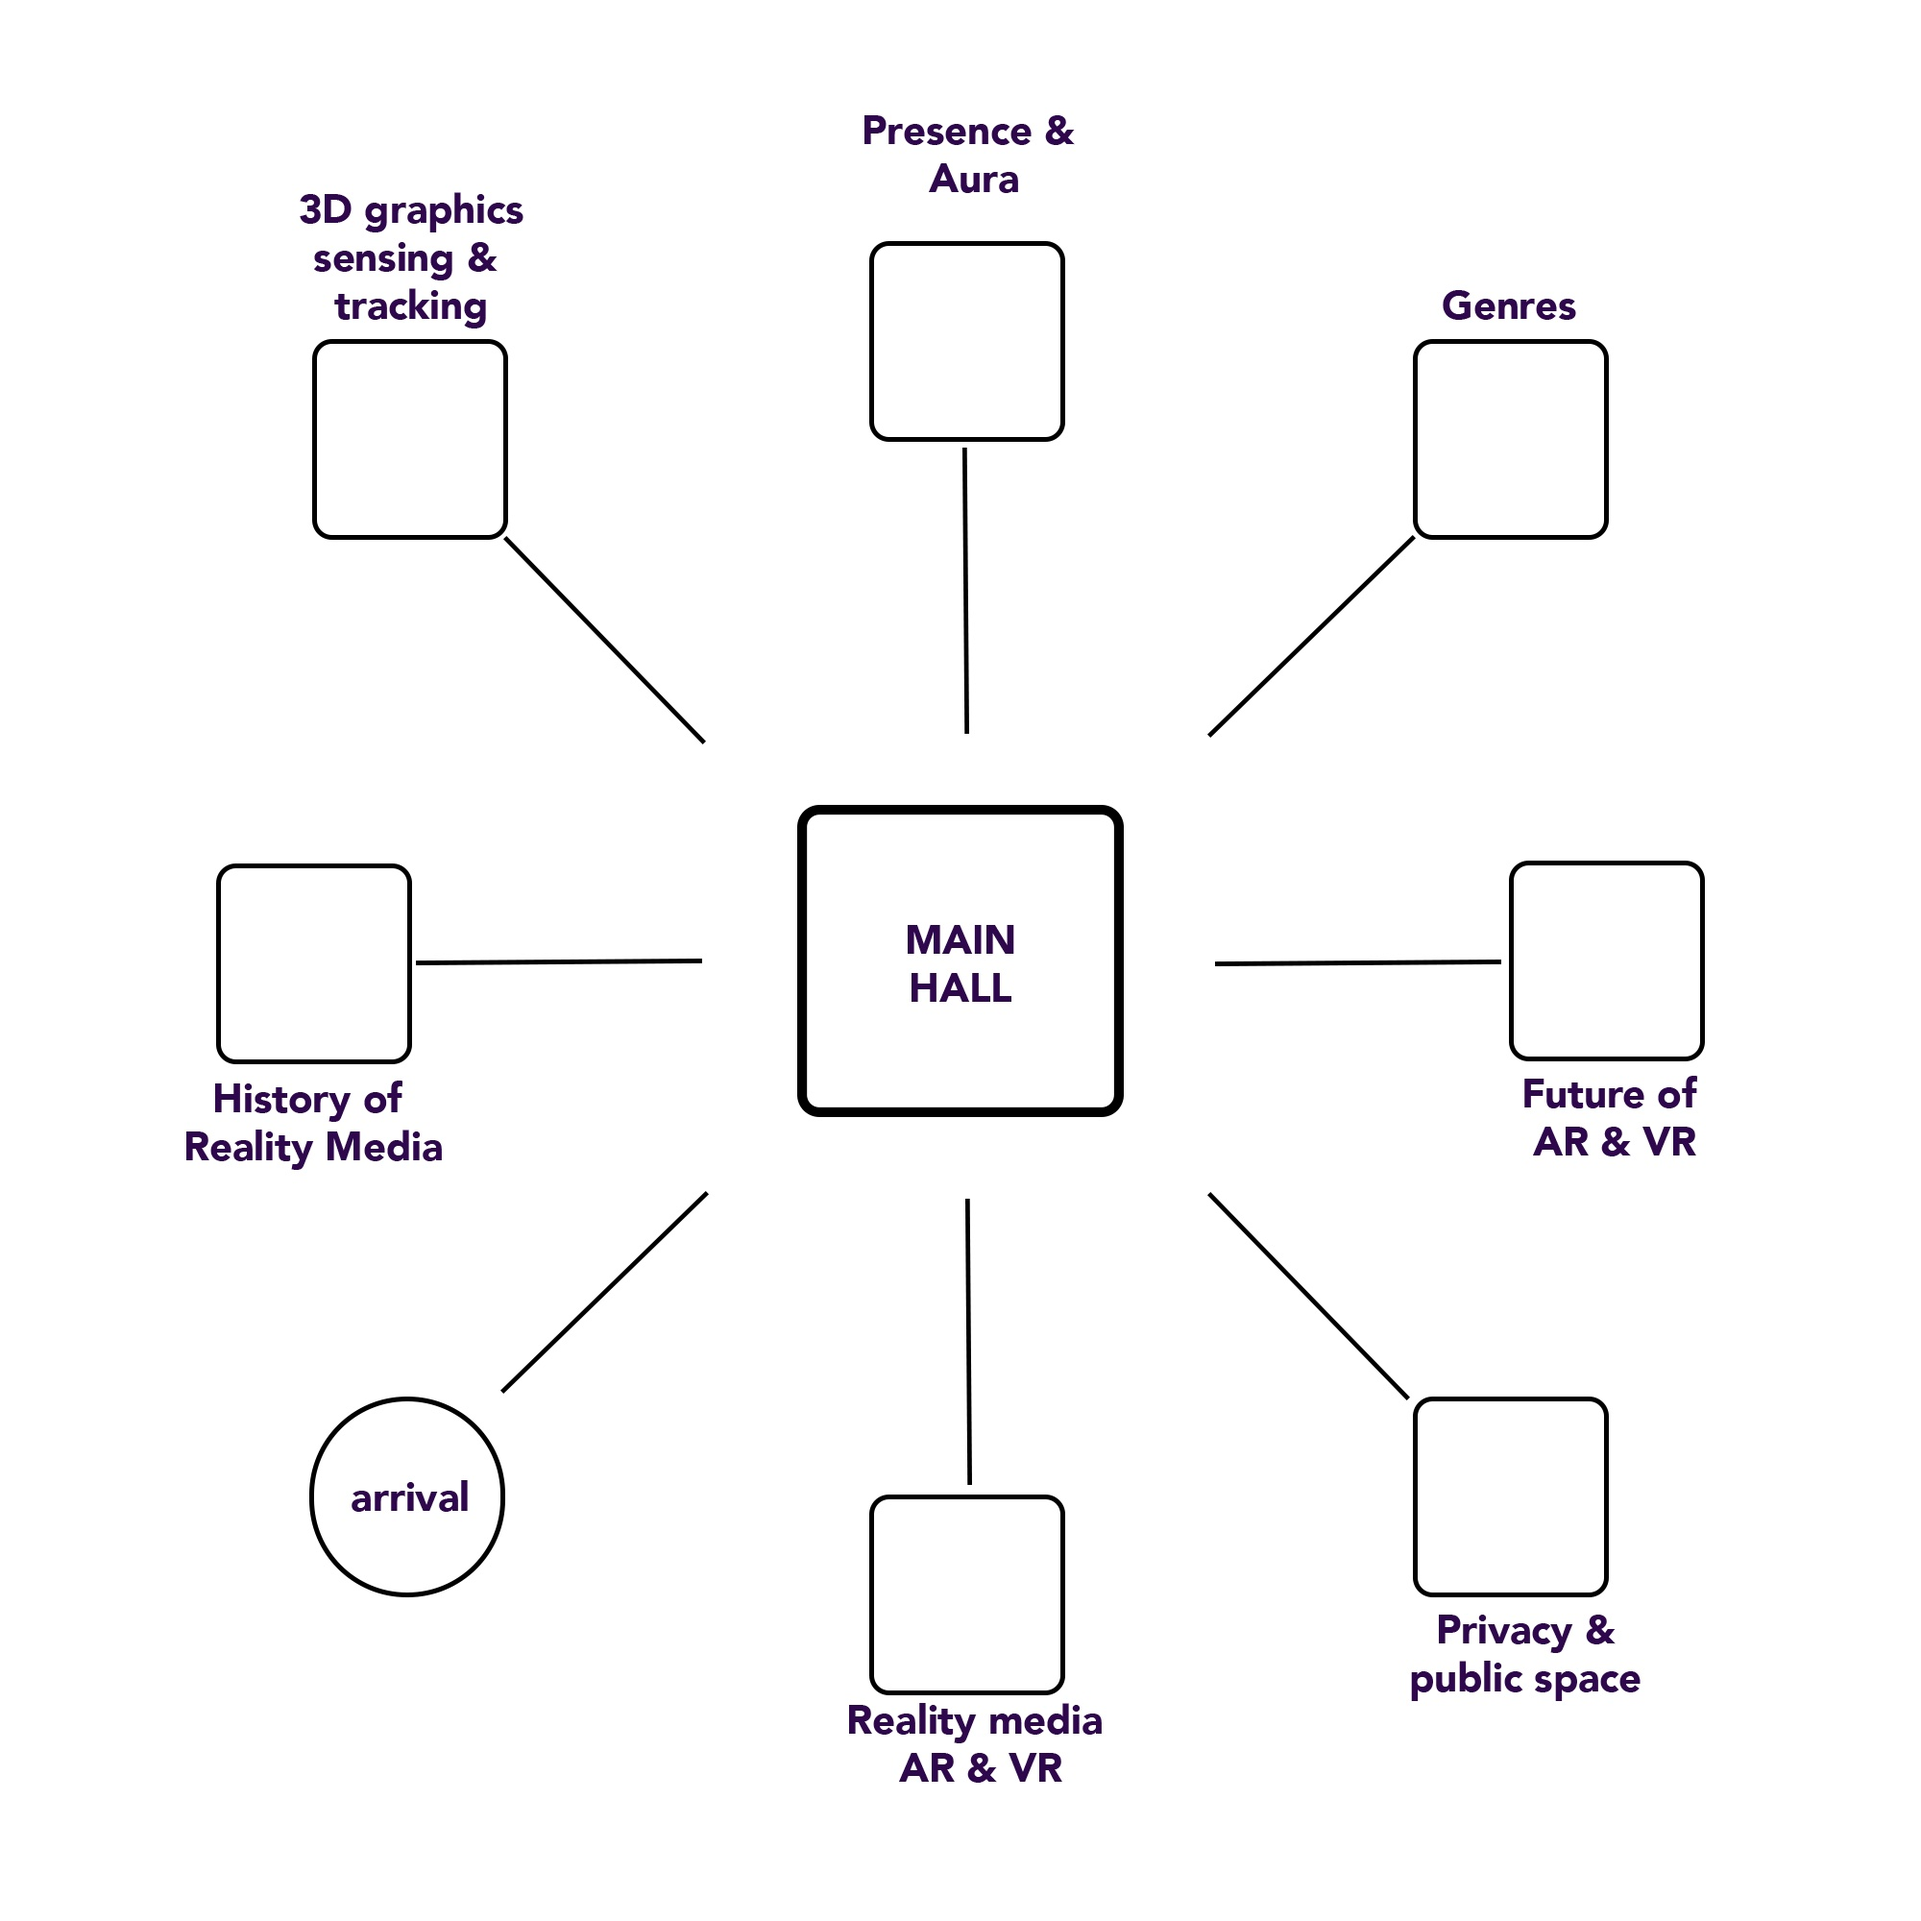
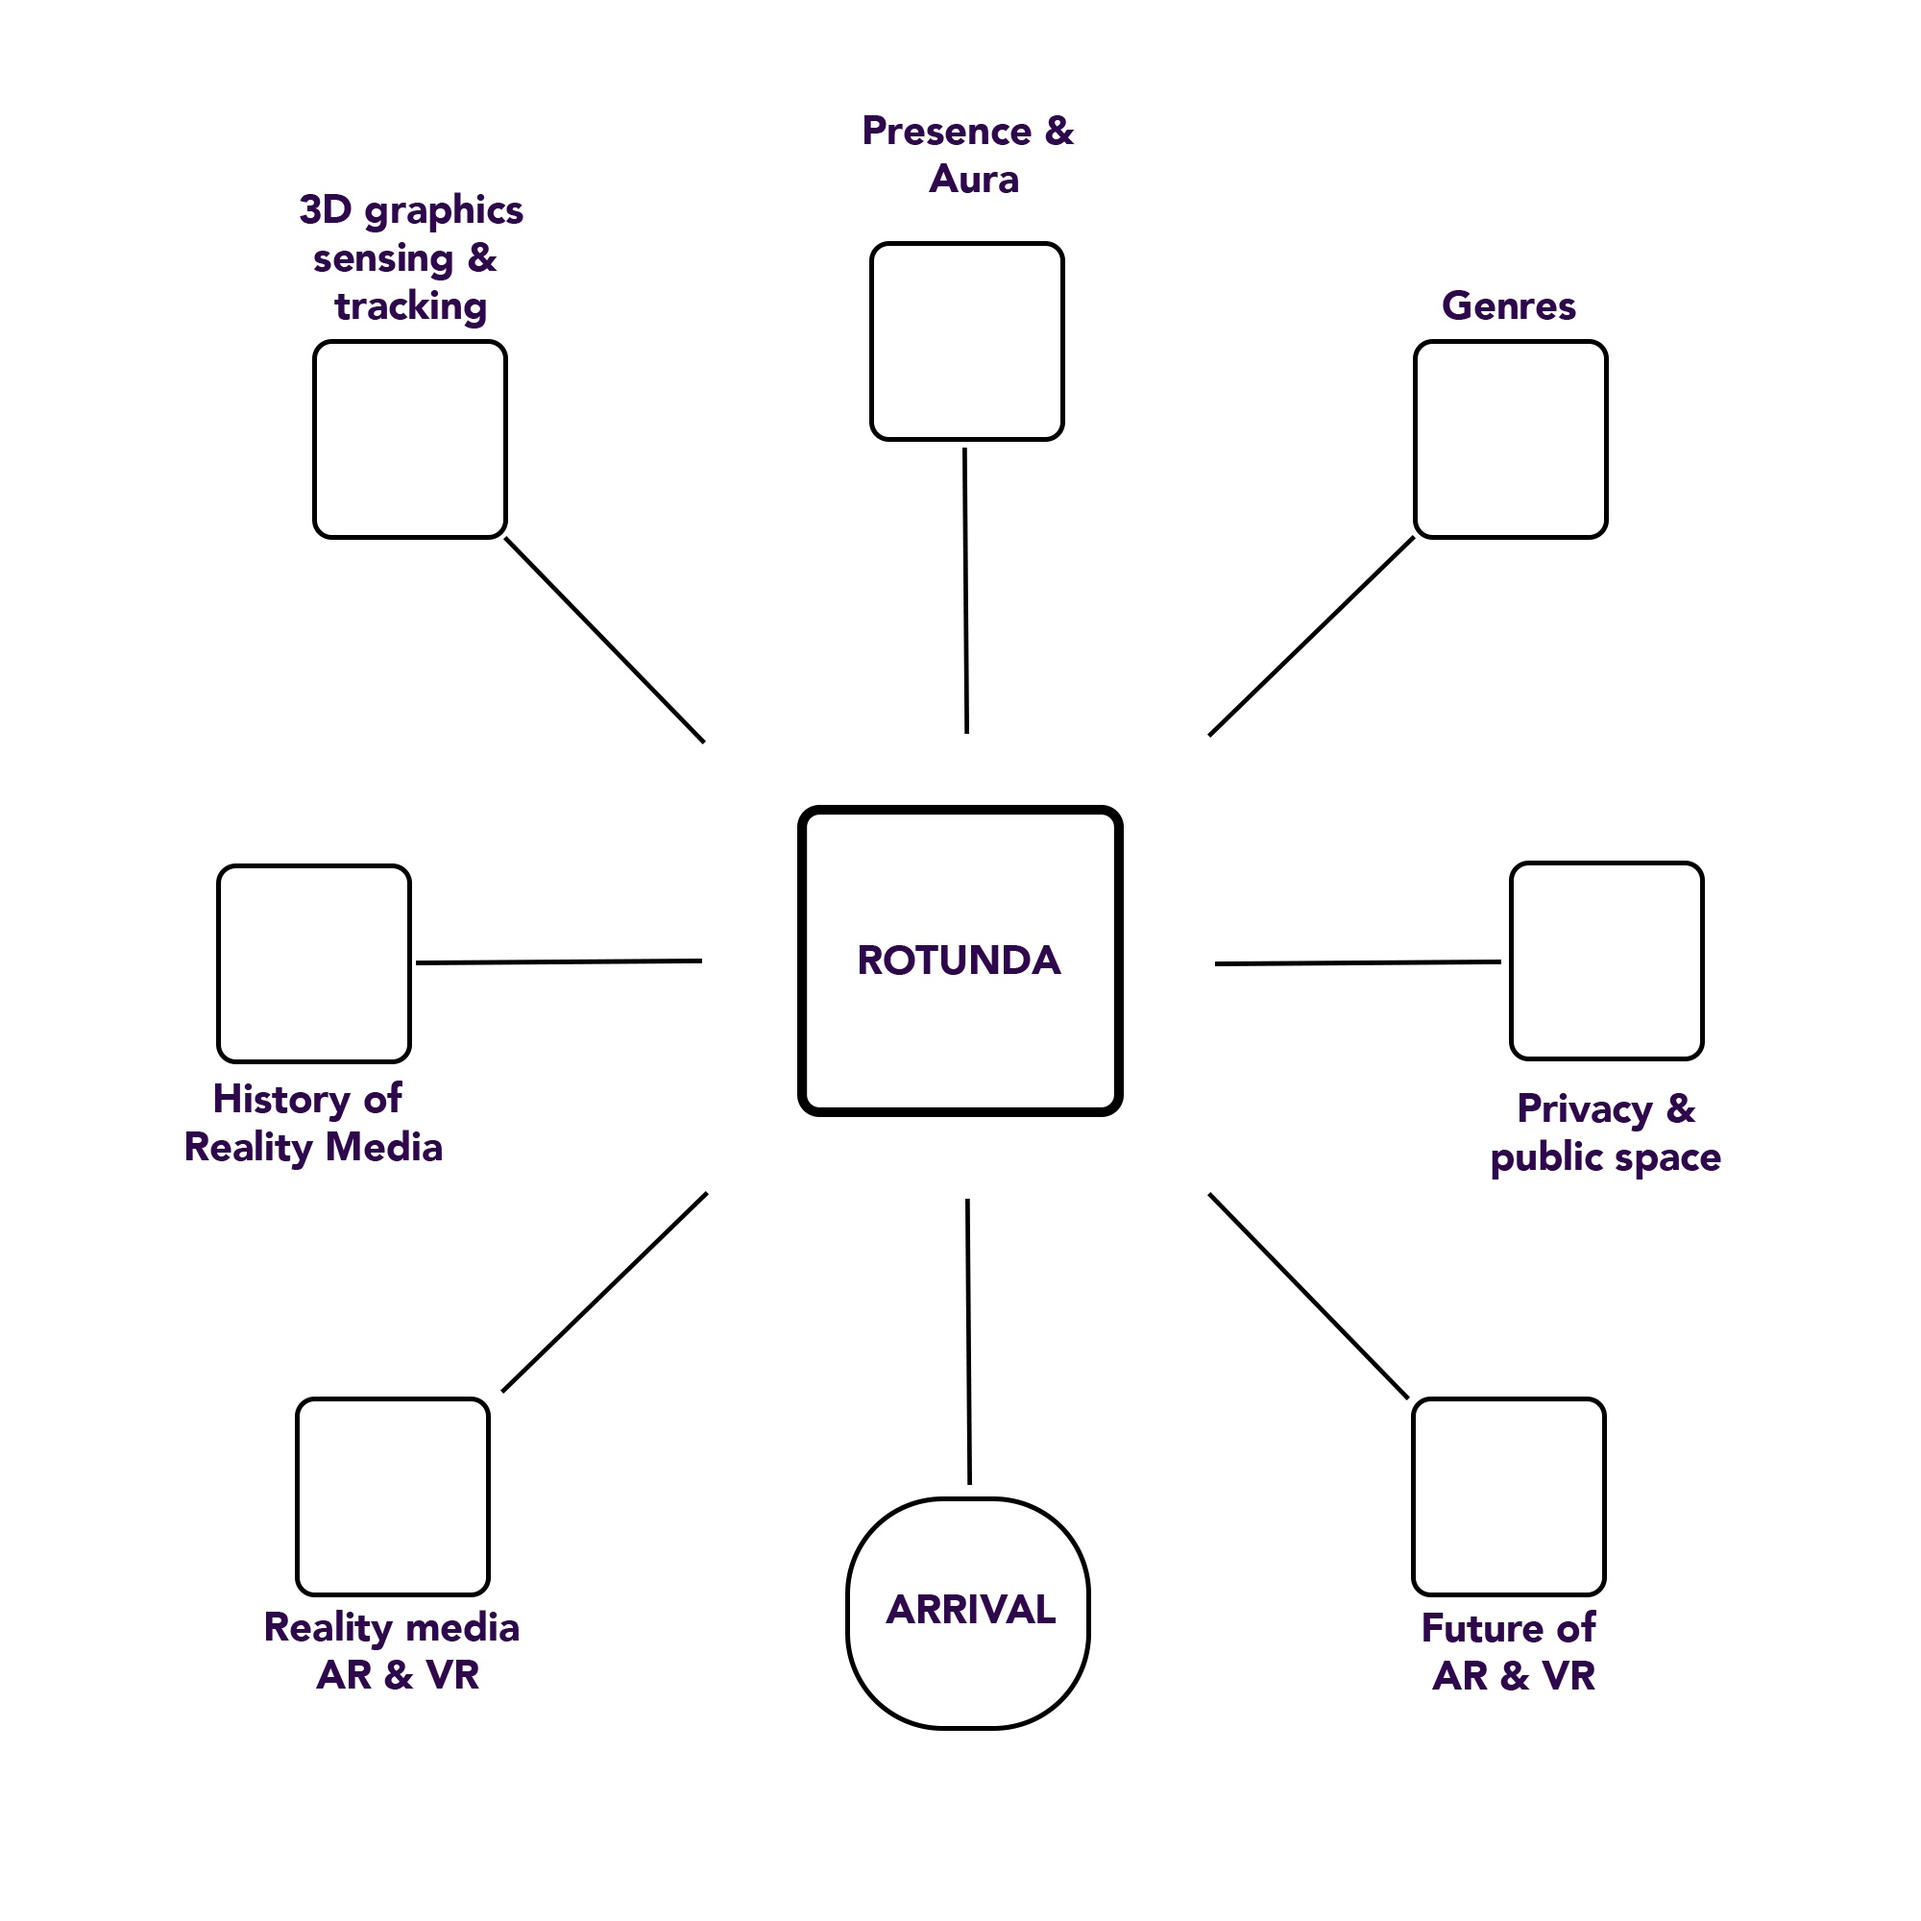
Added second map image
I've added a new map but it will need to be updated.

diff --git a/docs/chapters/chapter-Preface.html b/docs/chapters/chapter-Preface.html
@@ -42,8 +42,8 @@
   <meta property="og:locale" content="en_us">
 
   
-    <meta property="article:modified_time" content="2021-10-18T17:25:57-04:00">
-    <meta property="article:published_time" content="2021-10-18T17:25:57-04:00">
+    <meta property="article:modified_time" content="2021-10-19T12:03:42-04:00">
+    <meta property="article:published_time" content="2021-10-19T12:03:42-04:00">
     <meta property="article:author" content="https://www.facebook.com/">
     
   

diff --git a/docs/chapters/chapter-authors.html b/docs/chapters/chapter-authors.html
@@ -44,8 +44,8 @@
   <meta property="og:locale" content="en_us">
 
   
-    <meta property="article:modified_time" content="2021-10-18T17:25:57-04:00">
-    <meta property="article:published_time" content="2021-10-18T17:25:57-04:00">
+    <meta property="article:modified_time" content="2021-10-19T12:03:42-04:00">
+    <meta property="article:published_time" content="2021-10-19T12:03:42-04:00">
     <meta property="article:author" content="https://www.facebook.com/">
     
   

diff --git a/docs/chapters/chapter-credits.html b/docs/chapters/chapter-credits.html
@@ -44,8 +44,8 @@
   <meta property="og:locale" content="en_us">
 
   
-    <meta property="article:modified_time" content="2021-10-18T17:25:57-04:00">
-    <meta property="article:published_time" content="2021-10-18T17:25:57-04:00">
+    <meta property="article:modified_time" content="2021-10-19T12:03:42-04:00">
+    <meta property="article:published_time" content="2021-10-19T12:03:42-04:00">
     <meta property="article:author" content="https://www.facebook.com/">
     
   

diff --git a/docs/chapters/chapter-devices.html b/docs/chapters/chapter-devices.html
@@ -44,8 +44,8 @@
   <meta property="og:locale" content="en_us">
 
   
-    <meta property="article:modified_time" content="2021-10-18T17:25:57-04:00">
-    <meta property="article:published_time" content="2021-10-18T17:25:57-04:00">
+    <meta property="article:modified_time" content="2021-10-19T12:03:42-04:00">
+    <meta property="article:published_time" content="2021-10-19T12:03:42-04:00">
     <meta property="article:author" content="https://www.facebook.com/">
     
   

diff --git a/docs/chapters/chapter-onboarding.html b/docs/chapters/chapter-onboarding.html
@@ -44,8 +44,8 @@
   <meta property="og:locale" content="en_us">
 
   
-    <meta property="article:modified_time" content="2021-10-18T17:25:57-04:00">
-    <meta property="article:published_time" content="2021-10-18T17:25:57-04:00">
+    <meta property="article:modified_time" content="2021-10-19T12:03:42-04:00">
+    <meta property="article:published_time" content="2021-10-19T12:03:42-04:00">
     <meta property="article:author" content="https://www.facebook.com/">
     
   

diff --git a/docs/chapters/chapter00-intro.html b/docs/chapters/chapter00-intro.html
@@ -44,8 +44,8 @@
   <meta property="og:locale" content="en_us">
 
   
-    <meta property="article:modified_time" content="2021-10-18T17:25:57-04:00">
-    <meta property="article:published_time" content="2021-10-18T17:25:57-04:00">
+    <meta property="article:modified_time" content="2021-10-19T12:03:42-04:00">
+    <meta property="article:published_time" content="2021-10-19T12:03:42-04:00">
     <meta property="article:author" content="https://www.facebook.com/">
     
   

diff --git a/docs/chapters/chapter01.html b/docs/chapters/chapter01.html
@@ -44,8 +44,8 @@
   <meta property="og:locale" content="en_us">
 
   
-    <meta property="article:modified_time" content="2021-10-18T17:25:57-04:00">
-    <meta property="article:published_time" content="2021-10-18T17:25:57-04:00">
+    <meta property="article:modified_time" content="2021-10-19T12:03:42-04:00">
+    <meta property="article:published_time" content="2021-10-19T12:03:42-04:00">
     <meta property="article:author" content="https://www.facebook.com/">
     
   

diff --git a/docs/chapters/chapter02.html b/docs/chapters/chapter02.html
@@ -44,8 +44,8 @@
   <meta property="og:locale" content="en_us">
 
   
-    <meta property="article:modified_time" content="2021-10-18T17:25:57-04:00">
-    <meta property="article:published_time" content="2021-10-18T17:25:57-04:00">
+    <meta property="article:modified_time" content="2021-10-19T12:03:42-04:00">
+    <meta property="article:published_time" content="2021-10-19T12:03:42-04:00">
     <meta property="article:author" content="https://www.facebook.com/">
     
   

diff --git a/docs/chapters/chapter03-04.html b/docs/chapters/chapter03-04.html
@@ -44,8 +44,8 @@
   <meta property="og:locale" content="en_us">
 
   
-    <meta property="article:modified_time" content="2021-10-18T17:25:57-04:00">
-    <meta property="article:published_time" content="2021-10-18T17:25:57-04:00">
+    <meta property="article:modified_time" content="2021-10-19T12:03:42-04:00">
+    <meta property="article:published_time" content="2021-10-19T12:03:42-04:00">
     <meta property="article:author" content="https://www.facebook.com/">
     
   

diff --git a/docs/chapters/chapter05.html b/docs/chapters/chapter05.html
@@ -44,8 +44,8 @@
   <meta property="og:locale" content="en_us">
 
   
-    <meta property="article:modified_time" content="2021-10-18T17:25:57-04:00">
-    <meta property="article:published_time" content="2021-10-18T17:25:57-04:00">
+    <meta property="article:modified_time" content="2021-10-19T12:03:42-04:00">
+    <meta property="article:published_time" content="2021-10-19T12:03:42-04:00">
     <meta property="article:author" content="https://www.facebook.com/">
     
   

diff --git a/docs/chapters/chapter06.html b/docs/chapters/chapter06.html
@@ -44,8 +44,8 @@
   <meta property="og:locale" content="en_us">
 
   
-    <meta property="article:modified_time" content="2021-10-18T17:25:57-04:00">
-    <meta property="article:published_time" content="2021-10-18T17:25:57-04:00">
+    <meta property="article:modified_time" content="2021-10-19T12:03:42-04:00">
+    <meta property="article:published_time" content="2021-10-19T12:03:42-04:00">
     <meta property="article:author" content="https://www.facebook.com/">
     
   

diff --git a/docs/chapters/chapter09.html b/docs/chapters/chapter09.html
@@ -44,8 +44,8 @@
   <meta property="og:locale" content="en_us">
 
   
-    <meta property="article:modified_time" content="2021-10-18T17:25:57-04:00">
-    <meta property="article:published_time" content="2021-10-18T17:25:57-04:00">
+    <meta property="article:modified_time" content="2021-10-19T12:03:42-04:00">
+    <meta property="article:published_time" content="2021-10-19T12:03:42-04:00">
     <meta property="article:author" content="https://www.facebook.com/">
     
   
